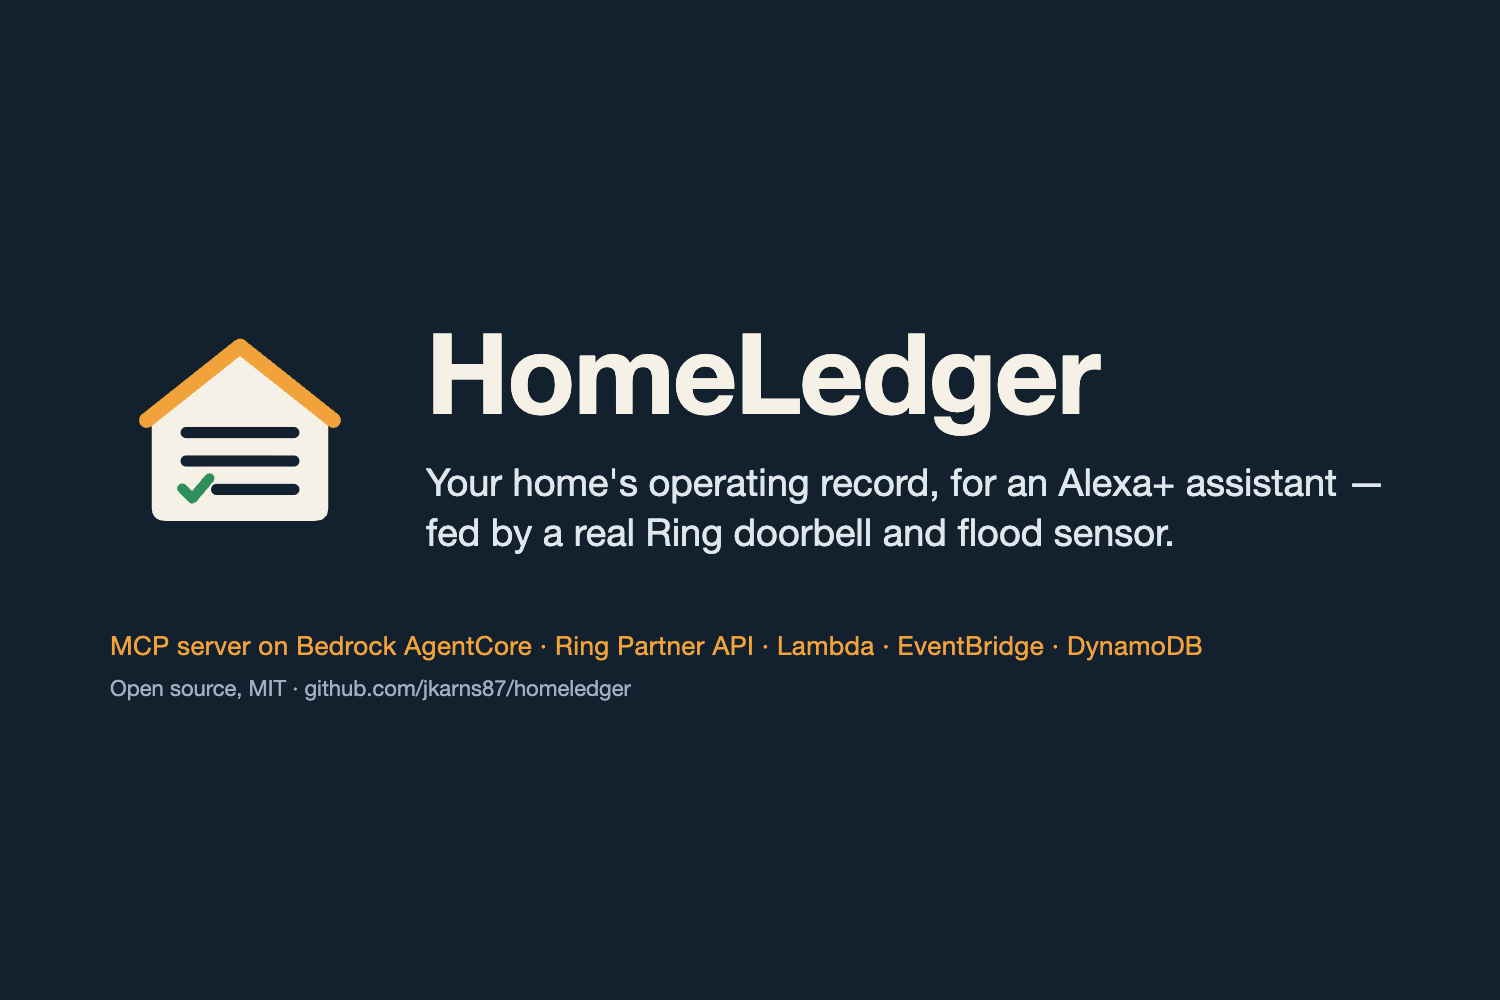
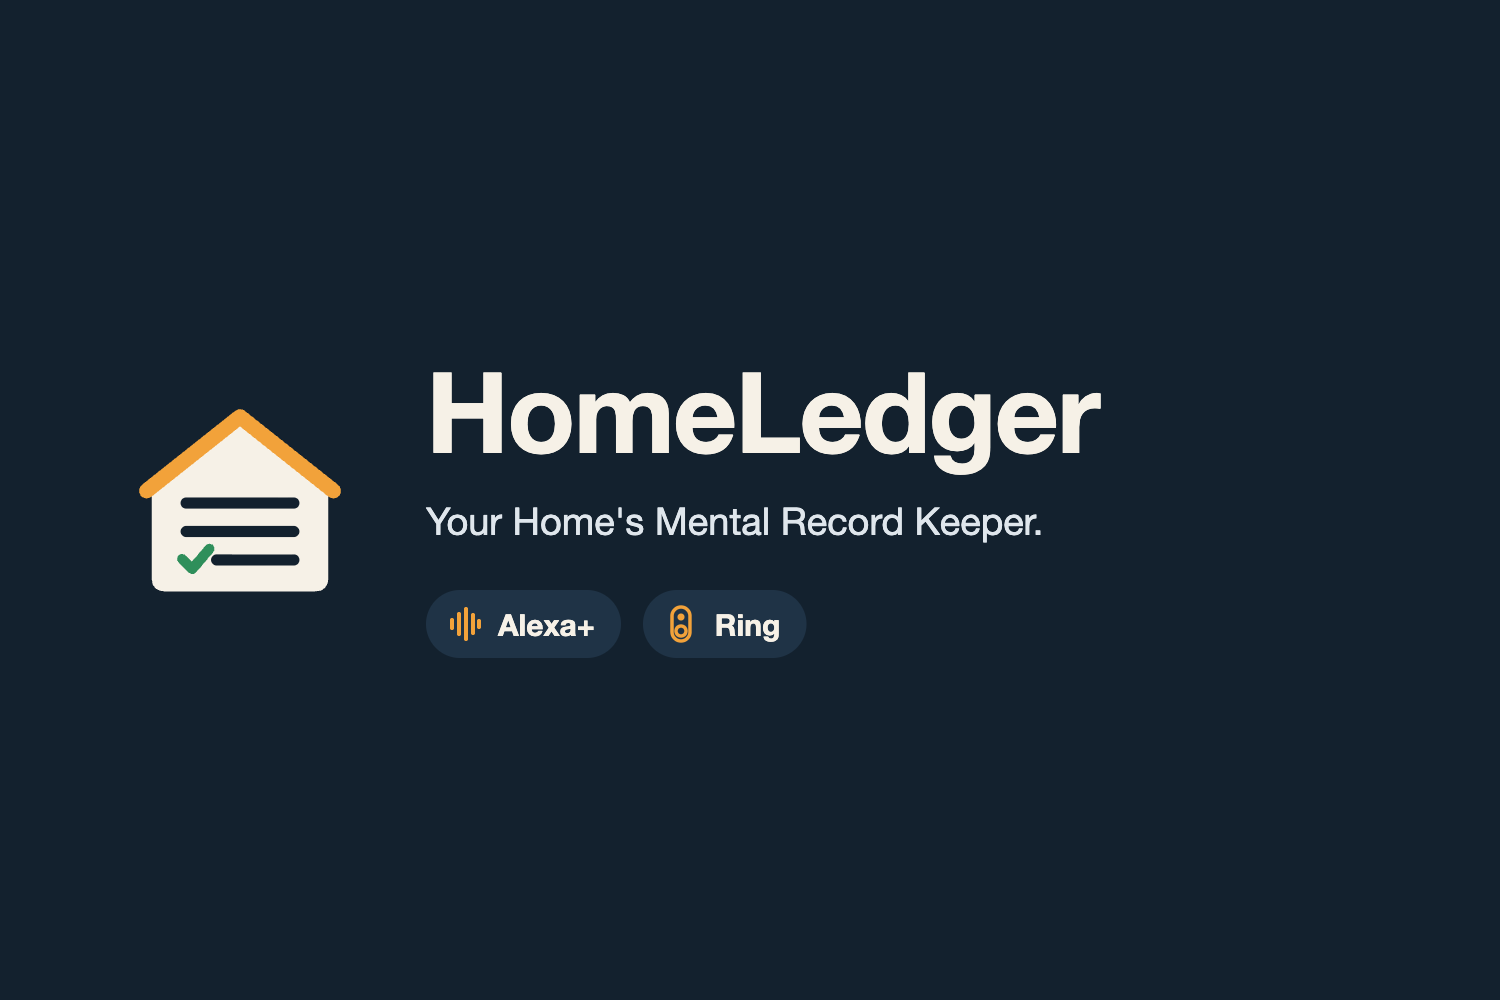
docs: cover card - new catch phrase, track chips, no stack lines
The rules bar third-party marks without permission (sections 4 and 11), so
the Alexa+ and Ring chips carry drawn icons and the plain names rather than
the official logos.

Changed region(s): [[0.276, 0.31, 0.8893, 0.558], [0.0613, 0.589, 0.7973, 0.713], [0.092, 0.341, 0.2453, 0.589]]

diff --git a/docs/assets/devpost/frame.html b/docs/assets/devpost/frame.html
@@ -30,8 +30,12 @@
   .cover .row img { width: 260px; height: 260px; }
   .cover h1 { font-size: 112px; margin: 0; letter-spacing: -2px; }
   .cover .tag { font-size: 38px; line-height: 1.3; margin-top: 18px; color: #dfe6ec; max-width: 1000px; }
-  .cover .stack { margin-top: 70px; font-size: 26px; color: var(--accent); letter-spacing: 0.4px; }
-  .cover .note { margin-top: 14px; font-size: 22px; color: #9fb0bf; }
+  .cover .tracks { display: flex; gap: 22px; margin-top: 44px; }
+  .cover .chip {
+    display: flex; align-items: center; gap: 14px; padding: 14px 26px 14px 18px; border-radius: 999px;
+    background: #1f3346; color: var(--paper); font-size: 30px; font-weight: 600;
+  }
+  .cover .chip svg { width: 40px; height: 40px; }
 </style>
 </head>
 <body>
@@ -47,11 +51,23 @@
         <img src="icon.svg" alt="">
         <div>
           <h1>HomeLedger</h1>
-          <div class="tag">Your home's operating record, for an Alexa+ assistant — fed by a real Ring doorbell and flood sensor.</div>
+          <div class="tag">Your Home's Mental Record Keeper.</div>
+          <div class="tracks">
+            <!-- Drawn here, not the official logos: the rules bar third-party marks without permission (§4, §11). -->
+            <span class="chip">
+              <svg viewBox="0 0 40 40" aria-hidden="true"><g stroke="#f2a23a" stroke-width="4" stroke-linecap="round">
+                <line x1="8" y1="16" x2="8" y2="24"/><line x1="15" y1="10" x2="15" y2="30"/><line x1="22" y1="5" x2="22" y2="35"/>
+                <line x1="29" y1="11" x2="29" y2="29"/><line x1="35" y1="17" x2="35" y2="23"/></g></svg>
+              Alexa+
+            </span>
+            <span class="chip">
+              <svg viewBox="0 0 40 40" aria-hidden="true"><rect x="11" y="3" width="18" height="34" rx="9" fill="none" stroke="#f2a23a" stroke-width="3.5"/>
+                <circle cx="20" cy="13" r="3.5" fill="#f2a23a"/><circle cx="20" cy="27" r="5" fill="none" stroke="#f2a23a" stroke-width="3.5"/></svg>
+              Ring
+            </span>
+          </div>
         </div>
-      </div>
-      <div class="stack">MCP server on Bedrock AgentCore · Ring Partner API · Lambda · EventBridge · DynamoDB</div>
-      <div class="note">Open source, MIT · github.com/jkarns87/homeledger</div>`;
+      </div>`;
   } else {
     card.innerHTML = `
       <header>
